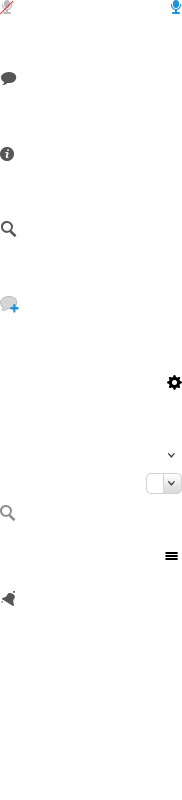
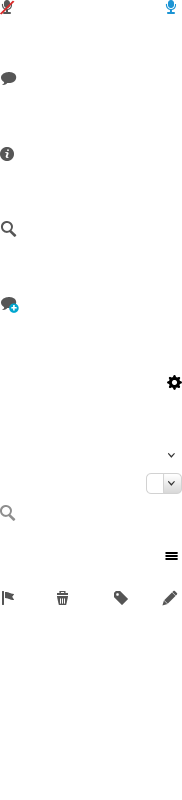
Change height with percentage because sometimes the chat windows was cut + more little css and image changes

diff --git a/css/silverchat.css b/css/silverchat.css
@@ -22,6 +22,7 @@
   right: 20px;
   overflow: hidden;
   width: 250px;
+  height:70%;
   background-color: #f5f5f5;
   box-shadow: 0px 0px 5px 0px rgba( 0, 0, 0, 0.3);
 }
@@ -65,19 +66,23 @@
 }
 
 #silverchat_roster_body {
-  height: 480px;
+  /*height: 480px;*/
   overflow: hidden;
   width: 100%;
 }
 
 #silverchat_roster_content {
-  height: 85%;
   overflow-x: hidden;
   overflow-y: scroll;
   border-bottom:1px solid  #ddd;
   background: #FFF;
   margin-bottom: 34px;
-  clear:both;
+  clear: both;
+  bottom: 0;
+  position: absolute;
+  top: 75px;
+  left: 0;
+  right: 0;
 }
 
 .ui-tooltip {
@@ -122,6 +127,7 @@
 #silverchat_roster_content #jsxc_buddylist,
 #silverchat_roster_content .slimScrollDiv {
   width:100% !important;
+  height:auto !important;
 }
 
 #silverchat_buddies_filter,
@@ -181,7 +187,7 @@
 }
 
 #manage_notifications:before {
-  background: url('../img/packIconsChat.png') 0 -591px no-repeat;
+  background: url('../img/packIconsChat.png') right 0 no-repeat;
 }
 
 #new_talk:before {
@@ -205,7 +211,7 @@
 
 #silverchat_roster.jsxc_state_hidden {
   display: block;
-  bottom: -480px;
+  bottom:-65%;
   -webkit-transition: bottom 0.5s;
   transition: bottom 0.5s;
 }
@@ -386,13 +392,13 @@ select.silverchat_presence option.jsxc_offline {
 }
 
 #silverchat_roster_footer  li {
-  height: 44px;
+  height: 30px;
   background-color: #eeeeee;
   color: #000;
   cursor: pointer;
   width: 100%;
   padding-left: 44px;
-  line-height: 44px;
+  line-height: 30px;
   text-align: left;
   overflow: hidden;
   text-overflow: ellipsis;
@@ -445,3 +451,34 @@ select.silverchat_presence option.jsxc_offline {
 .jsxc_windowItem .jsxc_window .jsxc_menu .jsxc_verification {
   display: none; !important;
 }
+
+.jsxc_bar {
+  color: #eee;
+}
+.jsxc_min .jsxc_caption .jsxc_name {
+  height: auto;
+  line-height: 40px;
+}
+/* buddy menu */
+.jsxc_menu {
+  position: fixed;
+  right: 38px;
+}
+
+.jsxc_menu .jsxc_infoicon {
+  background: url('../img/packIconsChat.png') 0 -147px no-repeat;
+  opacity:0.8;
+}
+
+.jsxc_menu .jsxc_deleteicon {
+  background: url('../img/packIconsChat.png') -57px -590px no-repeat;
+  opacity:0.8;
+}
+.jsxc_menu .jsxc_editicon {
+  background: url('../img/packIconsChat.png') -162px -590px no-repeat;
+  opacity:0.8;
+}
+.jsxc_menu a:hover .jsxc_icon {
+  opacity:1;
+}
+

diff --git a/js/silverchat-jsxc.js b/js/silverchat-jsxc.js
@@ -258,7 +258,7 @@ jsxc.gui.roster.init = function() {
   // scroll the content of the buddy list (chats)
   $('#jsxc_buddylist').slimScroll({
     distance: '3px',
-    height: ($('#silverchat_roster').height() - 31) + 'px',
+   /* height: ($('#silverchat_roster').height() - 31) + 'px',*/
     width: $('#jsxc_buddylist').width() + 'px',
     color: '#fff',
     opacity: '0.5'
